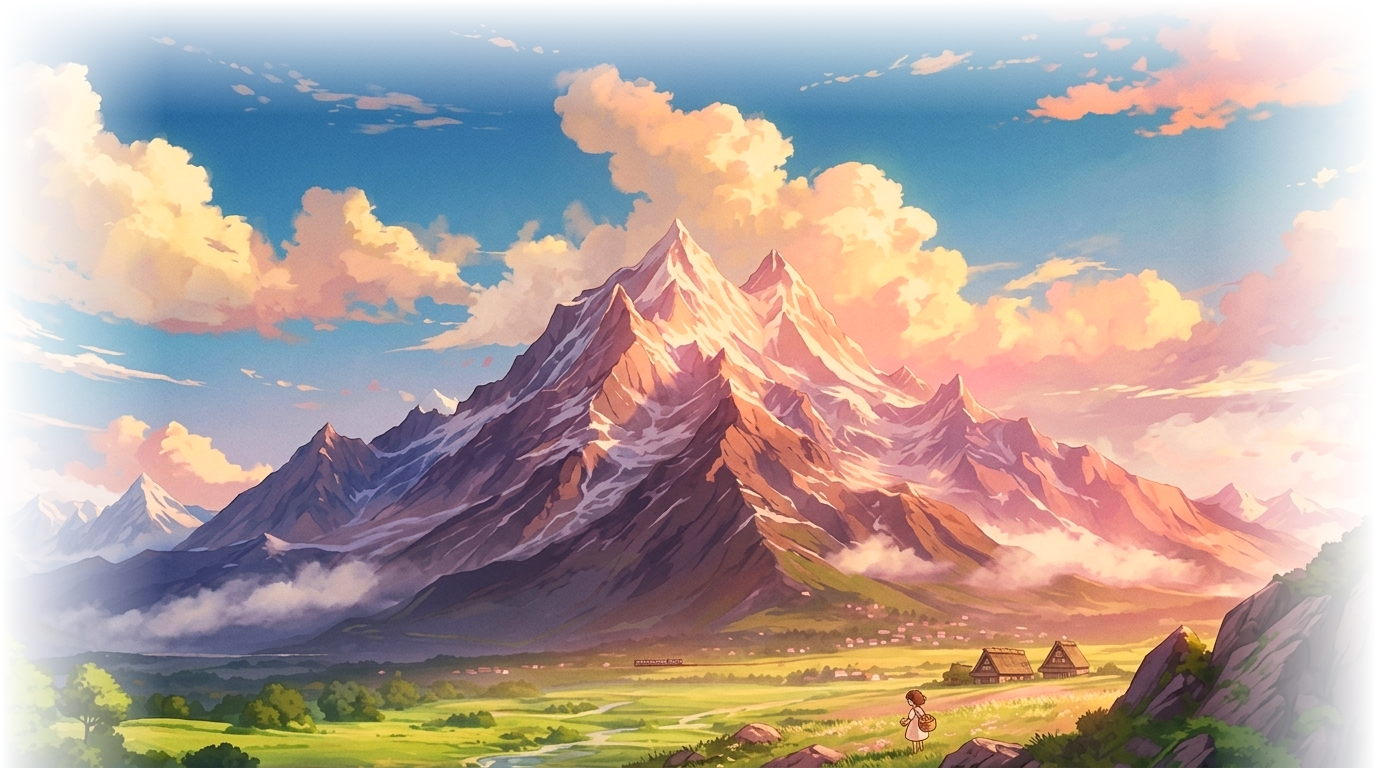
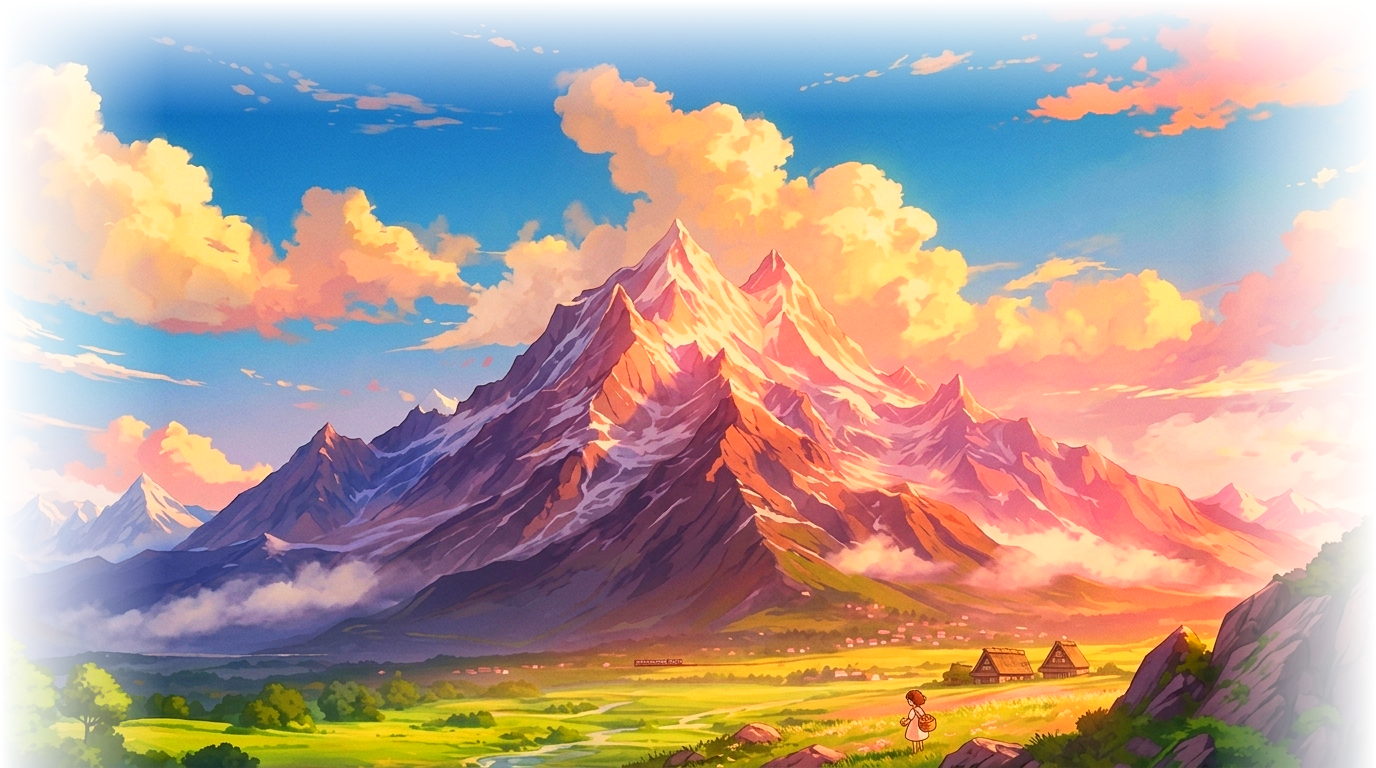
Replace Cherry Blossom couple directly from uploaded reference image media_1791321009528.png and boost mountain saturation +50%

diff --git a/index.html b/index.html
@@ -1180,7 +1180,7 @@
 
         // --- DIORAMA 6 (Sentence 6: Z = -180.7, 52.00s) - CLEAN COUPLE, GROUNDED UPRIGHT WHITISH-PINK TREES AT LYRICS Z=-178.5 & CLOSE MOUNTAIN ---
         // Single Main Cherry Blossom Couple (Clean tight cutout of ONLY the couple, no background trees)
-        const c6 = createCharacterOnRoad(6, 'assets/couple_6_v3.png?v=3', -180.7, 0.0);
+        const c6 = createCharacterOnRoad(6, 'assets/couple_6_v3.png?v=99', -180.7, 0.0);
         coupleMeshes.push(c6);
 
         // Whitish-pink trees standing UPRIGHT (rotation.z = 0) grounded at LYRICS text position (Z = -178.5, NO floating mid-air trees!)
@@ -1197,7 +1197,7 @@
         multiplaneGroup.add(archTreeLeft, archTreeRight);
 
         // Backdrop Mountain centered right after couple 6 (Z = -181.8)
-        const mCenter = createBillboard('assets/ai_ghibli_mountain_1.png', 48.0, 24.0);
+        const mCenter = createBillboard('assets/ai_ghibli_mountain_1.png?v=99', 48.0, 24.0);
         mCenter.position.set(0.0, 7.2, -181.8);
         if (mCenter.material) mCenter.material.depthWrite = false;
         multiplaneGroup.add(mCenter);
